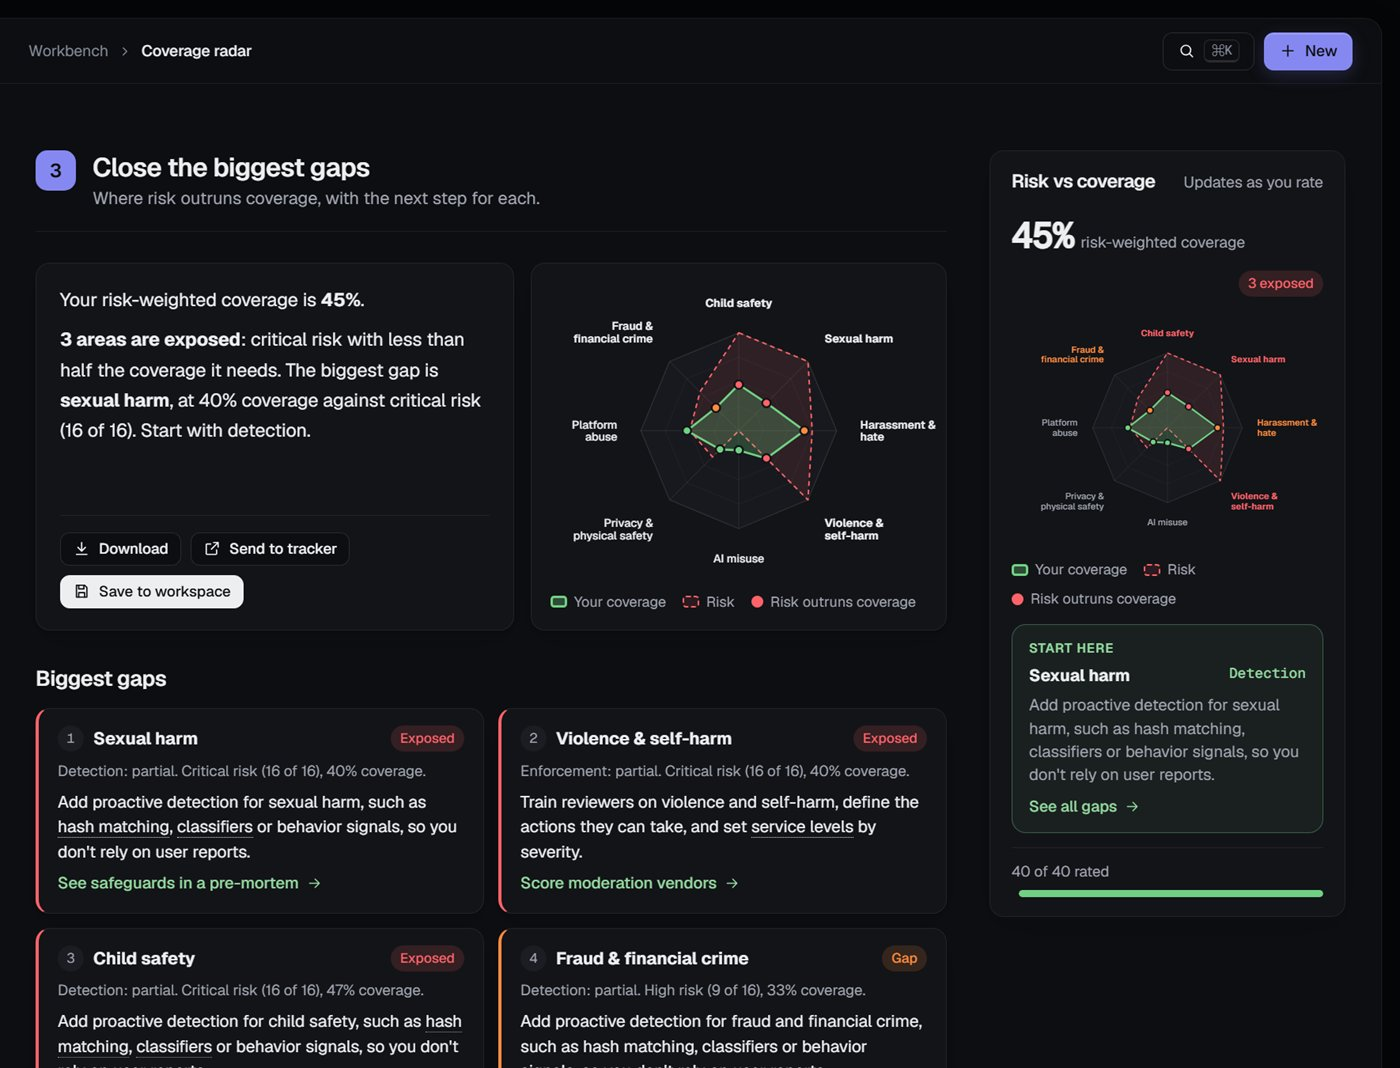
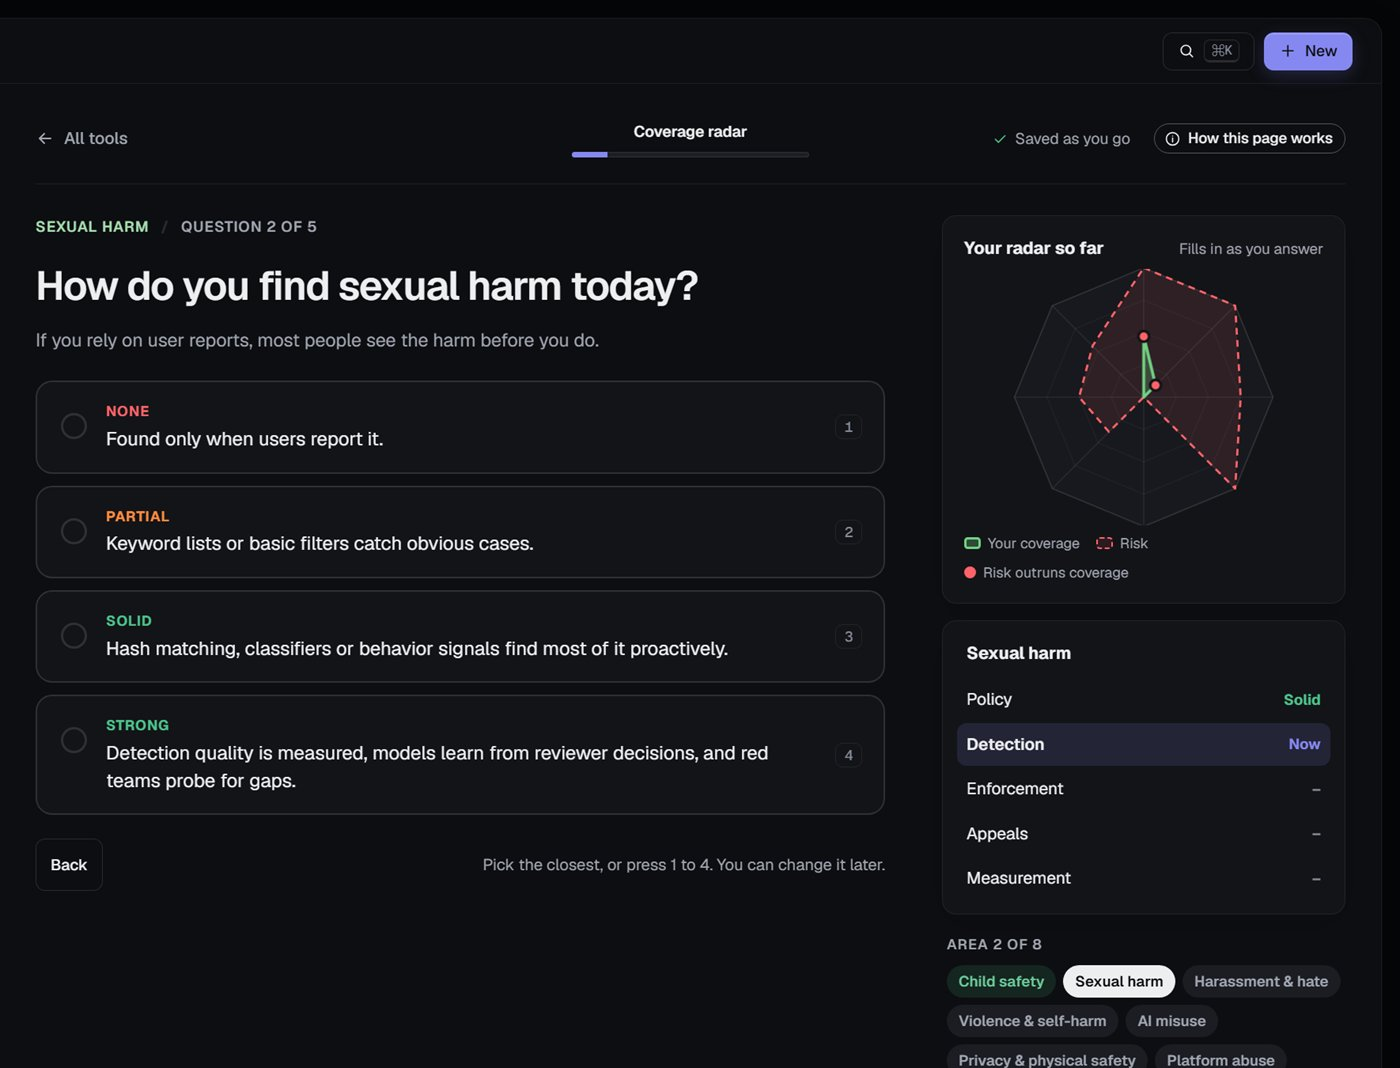
Fresh screenshots and copy for the guided assessment

diff --git a/index.html b/index.html
@@ -108,7 +108,7 @@ footer .wrap{display:flex;justify-content:space-between;gap:16px;flex-wrap:wrap}
     <p class="wb-intro">Tools for finding risks before launch, rehearsing incidents, measuring what matters, choosing vendors and writing clearer policy. The knowledge behind them is published as open content. <span>Private by default: work is saved only in your browser, and AI runs only when you ask.</span></p>
     <div class="show">
       <div class="show-tabs" role="tablist" aria-label="Workbench tools" aria-orientation="vertical">
-        <button type="button" role="tab" id="st-overview" aria-controls="sp-overview" aria-selected="true" tabindex="0"><i style="background:#8B8CFF"></i>Overview</button>
+        <button type="button" role="tab" id="st-overview" aria-controls="sp-overview" aria-selected="true" tabindex="0"><i style="background:#8B8CFF"></i>Your assessment</button>
         <button type="button" role="tab" id="st-premortem" aria-controls="sp-premortem" aria-selected="false" tabindex="-1"><i style="background:#7B7FF5"></i>Abuse pre-mortem</button>
         <button type="button" role="tab" id="st-tabletop" aria-controls="sp-tabletop" aria-selected="false" tabindex="-1"><i style="background:#3B8EF0"></i>Incident tabletop</button>
         <button type="button" role="tab" id="st-metrics" aria-controls="sp-metrics" aria-selected="false" tabindex="-1"><i style="background:#2BB39A"></i>Metrics framework</button>
@@ -118,12 +118,12 @@ footer .wrap{display:flex;justify-content:space-between;gap:16px;flex-wrap:wrap}
         <button type="button" role="tab" id="st-ai" aria-controls="sp-ai" aria-selected="false" tabindex="-1"><i style="background:#27B3CF"></i>AI assistants</button>
       </div>
       <div class="show-view">
-        <div class="show-panel" role="tabpanel" id="sp-overview" aria-labelledby="st-overview"><a class="show-frame" href="https://stevenmacchia.com/ts-workbench/#demo" tabindex="-1" aria-hidden="true"><img src="img/overview.jpg" alt="Overview in T&amp;S Workbench" width="1600" height="1000" loading="lazy"></a><div class="show-cap"><p>Your whole safety program in one place: a report card, a guided program review and your next moves. Shown with the demo company.</p><span class="links"><a href="https://stevenmacchia.com/ts-workbench/#demo">Try it</a><a href="https://github.com/stevenmacchia/ts-workbench">How it works</a></span></div></div>
+        <div class="show-panel" role="tabpanel" id="sp-overview" aria-labelledby="st-overview"><a class="show-frame" href="https://stevenmacchia.com/ts-workbench/#demo" tabindex="-1" aria-hidden="true"><img src="img/overview.jpg" alt="Your assessment in T&amp;S Workbench" width="1600" height="1000" loading="lazy"></a><div class="show-cap"><p>Six guided steps that fill in one picture of a Trust &amp; Safety program: a score, each part graded, three radars and what to do first. Shown with the demo company.</p><span class="links"><a href="https://stevenmacchia.com/ts-workbench/#demo">Try it</a><a href="https://github.com/stevenmacchia/ts-workbench">How it works</a></span></div></div>
         <div class="show-panel" role="tabpanel" id="sp-premortem" aria-labelledby="st-premortem" hidden><a class="show-frame" href="https://stevenmacchia.com/ts-workbench/#premortem" tabindex="-1" aria-hidden="true"><img data-src="img/premortem.jpg" alt="Abuse pre-mortem in T&amp;S Workbench" width="1400" height="1068" loading="lazy"></a><div class="show-cap"><p>See how a product could be misused before launch, and what to do first.</p><span class="links"><a href="https://stevenmacchia.com/ts-workbench/#premortem">Try it</a><a href="https://github.com/stevenmacchia/abuse-premortem">How it works</a></span></div></div>
         <div class="show-panel" role="tabpanel" id="sp-tabletop" aria-labelledby="st-tabletop" hidden><a class="show-frame" href="https://stevenmacchia.com/ts-workbench/#tabletop" tabindex="-1" aria-hidden="true"><img data-src="img/tabletop.jpg" alt="Incident tabletop in T&amp;S Workbench" width="1400" height="1068" loading="lazy"></a><div class="show-cap"><p>Rehearse a crisis: 37 scenarios, with a lesson and the law behind every call.</p><span class="links"><a href="https://stevenmacchia.com/ts-workbench/#tabletop">Try it</a><a href="https://github.com/stevenmacchia/incident-tabletop">How it works</a></span></div></div>
         <div class="show-panel" role="tabpanel" id="sp-metrics" aria-labelledby="st-metrics" hidden><a class="show-frame" href="https://stevenmacchia.com/ts-workbench/#metrics" tabindex="-1" aria-hidden="true"><img data-src="img/metrics.jpg" alt="Metrics framework in T&amp;S Workbench" width="1400" height="1068" loading="lazy"></a><div class="show-cap"><p>36 metrics with formulas, SQL, trends and a leadership one-pager.</p><span class="links"><a href="https://stevenmacchia.com/ts-workbench/#metrics">Try it</a><a href="https://github.com/stevenmacchia/ts-metrics-framework">How it works</a></span></div></div>
         <div class="show-panel" role="tabpanel" id="sp-vendors" aria-labelledby="st-vendors" hidden><a class="show-frame" href="https://stevenmacchia.com/ts-workbench/#vendors" tabindex="-1" aria-hidden="true"><img data-src="img/vendors.jpg" alt="Vendor scorecard in T&amp;S Workbench" width="1400" height="1068" loading="lazy"></a><div class="show-cap"><p>Choose a moderation vendor on evidence, with rubrics and RFP questions.</p><span class="links"><a href="https://stevenmacchia.com/ts-workbench/#vendors">Try it</a><a href="https://github.com/stevenmacchia/moderation-vendor-scorecard">How it works</a></span></div></div>
-        <div class="show-panel" role="tabpanel" id="sp-coverage" aria-labelledby="st-coverage" hidden><a class="show-frame" href="https://stevenmacchia.com/ts-workbench/#coverage" tabindex="-1" aria-hidden="true"><img data-src="img/coverage.jpg" alt="Coverage radar in T&amp;S Workbench" width="1400" height="1068" loading="lazy"></a><div class="show-cap"><p>See where your products' risk outruns your defenses, with the next step for each gap.</p><span class="links"><a href="https://stevenmacchia.com/ts-workbench/#coverage">Try it</a><a href="https://github.com/stevenmacchia/harm-coverage-radar">How it works</a></span></div></div>
+        <div class="show-panel" role="tabpanel" id="sp-coverage" aria-labelledby="st-coverage" hidden><a class="show-frame" href="https://stevenmacchia.com/ts-workbench/#coverage" tabindex="-1" aria-hidden="true"><img data-src="img/coverage.jpg" alt="Coverage radar in T&amp;S Workbench" width="1400" height="1068" loading="lazy"></a><div class="show-cap"><p>One question at a time, your radar filling in as you answer, then the gaps to close first.</p><span class="links"><a href="https://stevenmacchia.com/ts-workbench/#coverage">Try it</a><a href="https://github.com/stevenmacchia/harm-coverage-radar">How it works</a></span></div></div>
         <div class="show-panel" role="tabpanel" id="sp-maturity" aria-labelledby="st-maturity" hidden><a class="show-frame" href="https://stevenmacchia.com/ts-workbench/#maturity" tabindex="-1" aria-hidden="true"><img data-src="img/maturity.jpg" alt="Program maturity in T&amp;S Workbench" width="1400" height="1068" loading="lazy"></a><div class="show-cap"><p>Rate a Trust &amp; Safety program in eight areas and get a phased roadmap for the biggest gaps.</p><span class="links"><a href="https://stevenmacchia.com/ts-workbench/#maturity">Try it</a><a href="https://github.com/stevenmacchia/ts-maturity-model">How it works</a></span></div></div>
         <div class="show-panel" role="tabpanel" id="sp-ai" aria-labelledby="st-ai" hidden><a class="show-frame" href="https://stevenmacchia.com/ts-workbench/#policy" tabindex="-1" aria-hidden="true"><img data-src="img/ai.jpg" alt="AI assistants in T&amp;S Workbench" width="1400" height="1068" loading="lazy"></a><div class="show-cap"><p>Stress-test a policy, draft enforcement notices and review appeals with AI, with a person making every call.</p><span class="links"><a href="https://stevenmacchia.com/ts-workbench/#policy">Try it</a><a href="https://github.com/stevenmacchia/ts-ai-assistants">How it works</a></span></div></div>
       </div>
